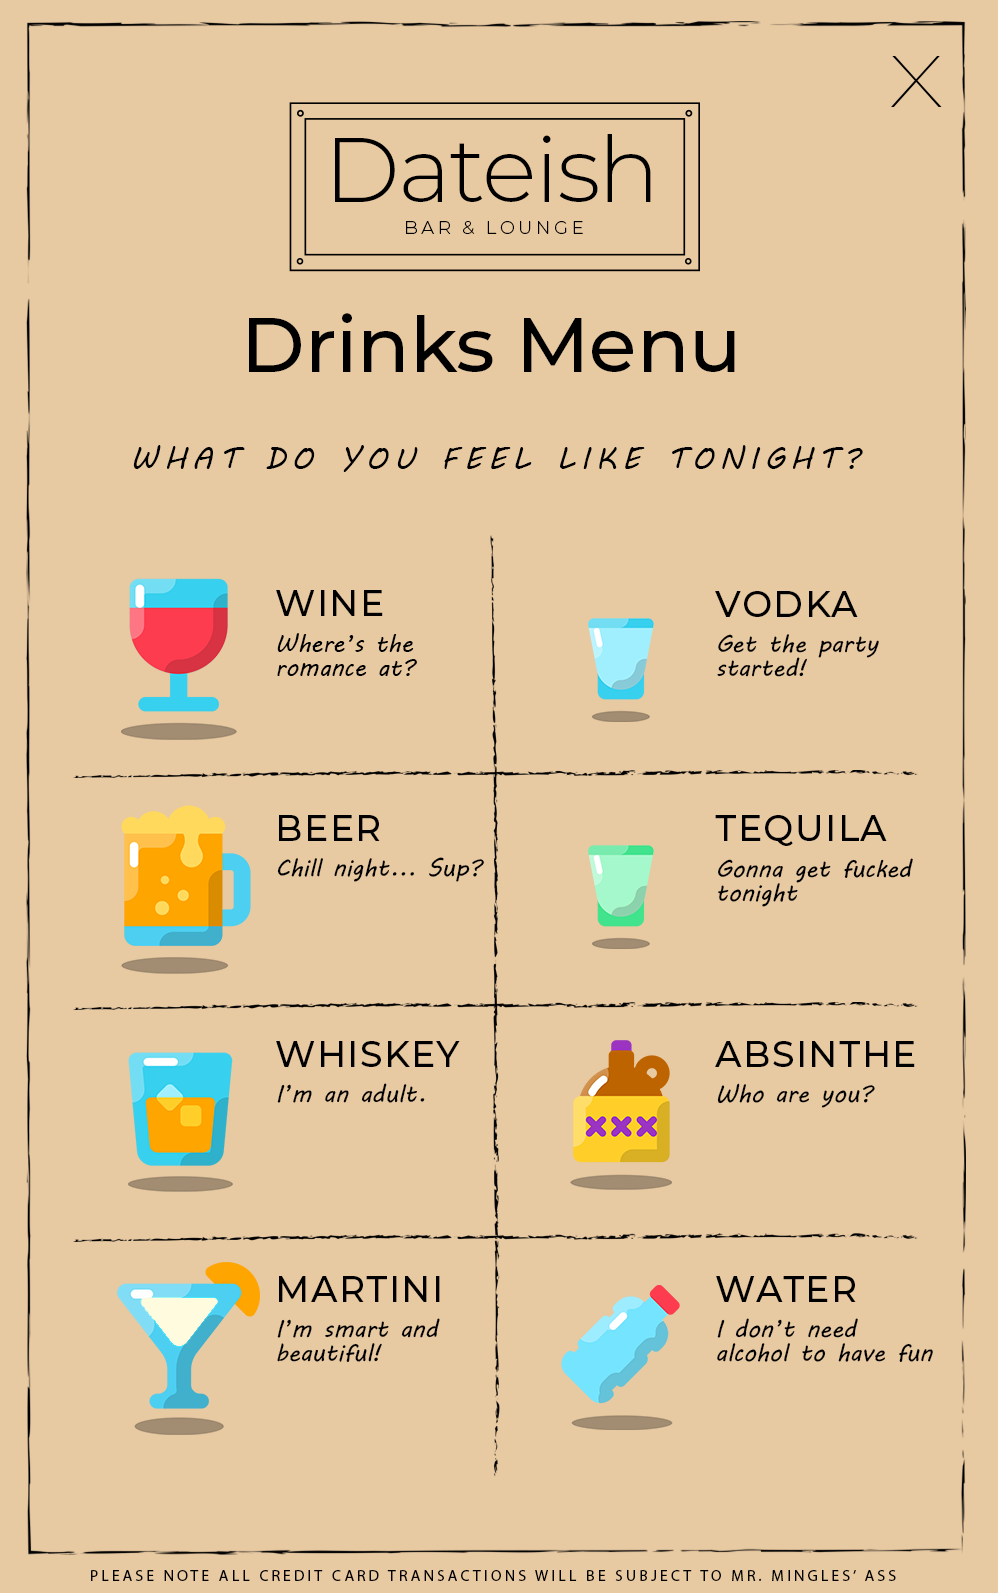
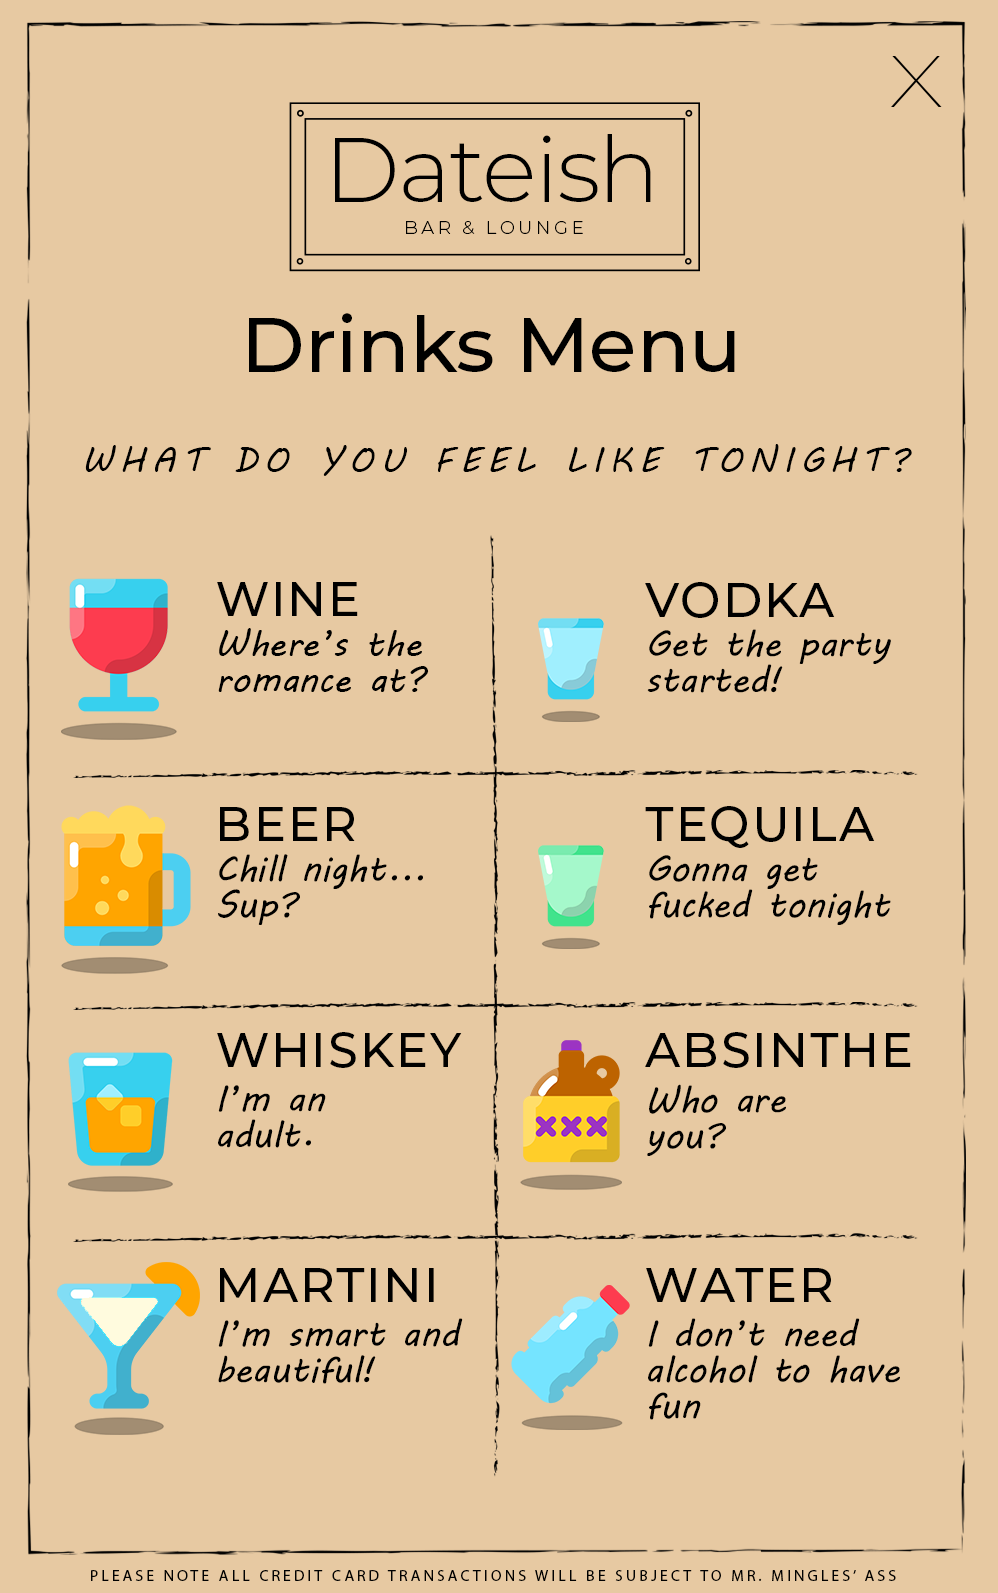
new drink menu, new loading screen, loading indicators

diff --git a/app/bar.tsx b/app/bar.tsx
@@ -256,15 +256,18 @@ function BarProfileComplete() {
   // When user taps "TAP," show the drink menu
   const [showDrinkMenu, setShowDrinkMenu] = useState(false);
   const handleTapPress = () => setShowDrinkMenu(true);
+  const [drinkLoading, setDrinkLoading] = useState(false);
 
   // Drink selections
   const handleDrinkSelect = async (drinkName: string) => {
+    setDrinkLoading(true);
     try {
       await saveProfile({ drink: drinkName });
     } catch (error) {
       console.error("Failed to update drink in profile:", error);
     }
     setShowDrinkMenu(false);
+    setDrinkLoading(false);
     setIsTapState(false);
   };
 
@@ -423,6 +426,11 @@ function BarProfileComplete() {
                   />
                 </TouchableOpacity>
               ))}
+              {drinkLoading && (
+                <View style={drinkModalStyles.loadingOverlay}>
+                  <ActivityIndicator size="large" color="#fff" />
+                </View>
+              )}
             </ImageBackground>
           </View>
         </View>
@@ -616,16 +624,26 @@ const drinkModalStyles = ScaledSheet.create({
   labelContainer: {
     position: "absolute",
   },
-  wine: { top: "41%", left: "28%" },
-  beer: { top: "53.5%", left: "28%" },
-  whiskey: { top: "66%", left: "28%" },
-  martini: { top: "80%", left: "28%" },
-  vodka: { top: "41%", left: "75%" },
-  tequila: { top: "53.5%", left: "75%" },
-  absinthe: { top: "66%", left: "75%" },
-  water: { top: "80%", left: "75%" },
+  wine: { top: "42.3%", left: "28%" },
+  beer: { top: "54.8%", left: "28%" },
+  whiskey: { top: "67%", left: "28%" },
+  martini: { top: "82%", left: "28%" },
+  vodka: { top: "42.3%", left: "75%" },
+  tequila: { top: "54.8%", left: "75%" },
+  absinthe: { top: "66.8%", left: "75%" },
+  water: { top: "82%", left: "75%" },
   labelImage: {
-    width: moderateScale(65),
-    height: moderateScale(65),
+    width: moderateScale(55),
+    height: moderateScale(55),
   },
+  loadingOverlay: {
+    position: "absolute",
+    top: 0,
+    left: 0,
+    right: 0,
+    bottom: 0,
+    justifyContent: "center",
+    alignItems: "center",
+    backgroundColor: "rgba(0,0,0,0.5)"
+  }
 });

diff --git a/app/profile.tsx b/app/profile.tsx
@@ -53,6 +53,7 @@ export default function ProfileScreen() {
   const [photoUri, setPhotoUri] = useState<string | null>(null);
   const [isSaving, setIsSaving] = useState(false);
   const [descriptionError, setDescriptionError] = useState("");
+  const [locationLoading, setLocationLoading] = useState(false);
 
   // State to control modal for editing the "about" field
   const [editingAbout, setEditingAbout] = useState(false);
@@ -172,9 +173,11 @@ export default function ProfileScreen() {
 
   // Get location
   const handleRequestLocation = async () => {
+    setLocationLoading(true);
     let { status } = await Location.requestForegroundPermissionsAsync();
     if (status !== "granted") {
       alert("Permission to access location was denied.");
+      setLocationLoading(false);
       return;
     }
     try {
@@ -188,6 +191,8 @@ export default function ProfileScreen() {
     } catch (error) {
       console.error("Error fetching location:", error);
       alert("Unable to retrieve location.");
+    } finally {
+      setLocationLoading(false);
     }
   };
 
@@ -288,13 +293,18 @@ export default function ProfileScreen() {
             keyboardType="numeric"
           />
           <View style={styles.locationContainer}>
-            <TextInput
+            {locationLoading ? (
+              <ActivityIndicator size="small" color="#000"/>
+            ) : (
+              <TextInput
               style={styles.input}
               placeholder="Location"
               placeholderTextColor="#999"
               value={location}
               onChangeText={setLocation}
             />
+            )}
+            
             <TouchableOpacity style={styles.editButton} onPress={handleRequestLocation}>
               <Text style={styles.editButtonText}>Get Location</Text>
             </TouchableOpacity>

diff --git a/app/browse.tsx b/app/browse.tsx
@@ -112,9 +112,9 @@ export default function BrowseScreen() {
 
   if (!fontsLoaded || loading) {
     return (
-      <View style={styles.loadingContainer}>
+      <ImageBackground source={require("../assets/images/background-bricks.png")} style={styles.loadingContainer}>
         <ActivityIndicator size="large" color="#fff" />
-      </View>
+      </ImageBackground>
     );
   }
 
